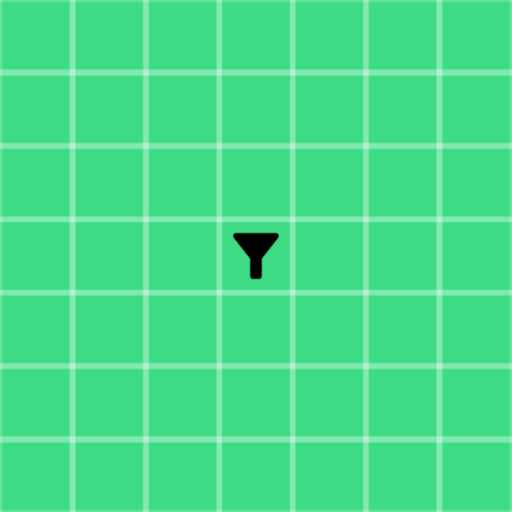
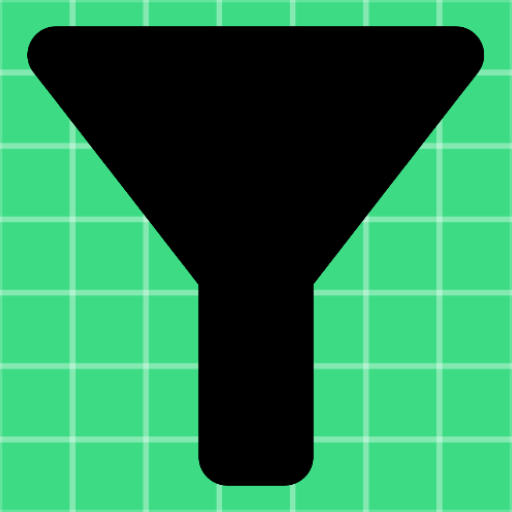
Catalogus details verbeterd
Genre naam is nu correct inplaats van een nummer
Filter knop heeft een icon
Genre lijsten worden nu default ingeladen

diff --git a/app/src/main/java/com/example/movieradar/CatalogusAdapter.java b/app/src/main/java/com/example/movieradar/CatalogusAdapter.java
@@ -54,11 +54,12 @@ public class CatalogusAdapter extends
 //        }
         this.holder = holder;
         Integer genreId = checkedBoxes.get(position);
-        String genre = getGenreName(genreId);
-        holder.tvCatalogusItemTitle.setText(genre);
+        String genreIdTrue = getGenreId(genreId);
+        String genreName = getGenreName(genreId);
+        holder.tvCatalogusItemTitle.setText(genreName);
         // Make API call for the genre
         APIString str = new APIString();
-        str.filterOnGenre(Filters.with_genres, genre);
+        str.filterOnGenre(Filters.with_genres, genreIdTrue);
         str.finish();
         Log.i(LOG_TAG, "Chosen genre APIString created");
 
@@ -72,7 +73,7 @@ public class CatalogusAdapter extends
         return checkedBoxes.size();
     }
 
-    private String getGenreName(int genreId) {
+    private String getGenreId(int genreId) {
             String genre="";
 
             switch (genreId) {
@@ -113,6 +114,38 @@ public class CatalogusAdapter extends
             return genre;
         }
 
+    private String getGenreName(int genreId) {
+        String genre="";
+
+        switch (genreId) {
+            case 1:
+                genre = "Action";
+                break;
+            case 2:
+                genre = "Comedy";
+                break;
+            case 3:
+                genre = "Drama";
+                break;
+            case 4:
+                genre = "Family";
+                break;
+            case 5:
+                genre = "Fantasy";
+                break;
+            case 6:
+                genre = "Horror";
+                break;
+            case 7:
+                genre = "Romance";
+                break;
+            case 8:
+                genre = "Science Fiction";
+                break;
+        }
+
+        return genre;
+    }
 
     static class CatalogusViewHolder extends RecyclerView.ViewHolder {
         TextView tvCatalogusItemTitle;

diff --git a/app/src/main/java/com/example/movieradar/Catalogus.java b/app/src/main/java/com/example/movieradar/Catalogus.java
@@ -8,6 +8,7 @@ import android.view.MenuItem;
 import android.view.View;
 import android.widget.Button;
 import android.widget.CheckBox;
+import android.widget.ImageButton;
 import android.widget.LinearLayout;
 
 import android.widget.SearchView;
@@ -40,7 +41,7 @@ public class Catalogus extends AppCompatActivity implements MovieApiTask.OnNewMo
     private CatalogusAdapter catalogusAdapter;
     private LinearLayout lCatalogusCheckboxes;
     private MovieListAdapter movieListAdapter;
-    private Button bFilterMenuToggle;
+    private ImageButton bFilterMenuToggle;
     ArrayList<Integer> checkedBoxes = new ArrayList<>();
 
     private SearchView svCatalogus;
@@ -117,8 +118,12 @@ public class Catalogus extends AppCompatActivity implements MovieApiTask.OnNewMo
         for (int i = 1; i <= numCheckBox; i++) {
             CheckBox checkBox = new CheckBox(this);
             checkBox.setText(getGenreName(i));
+            checkBox.setChecked(true);
             lCatalogusCheckboxes.addView(checkBox);
+            checkedBoxes.add(i);
+            catalogusAdapter.notifyDataSetChanged();
         }
+
 
         bFilterMenuToggle = findViewById(R.id.bFilterMenuToggle);
         bFilterMenuToggle.setOnClickListener(new View.OnClickListener() {
@@ -146,8 +151,6 @@ public class Catalogus extends AppCompatActivity implements MovieApiTask.OnNewMo
                 }
             }
         });
-
-
         btmNavView.setSelectedItemId(R.id.tbCatalogus);
     }
 
@@ -163,7 +166,7 @@ public class Catalogus extends AppCompatActivity implements MovieApiTask.OnNewMo
         str.search(query);
         str.finish();
         task.execute(str.getApiString());
-}
+    }
 
     @Override
     public void onMovieAvailable(ArrayList<Movie> movies, int apiIdentifier) {
